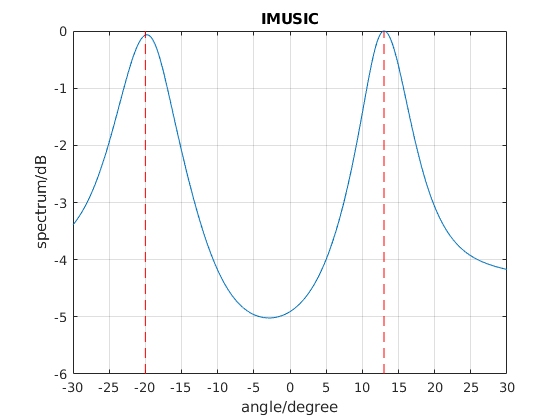
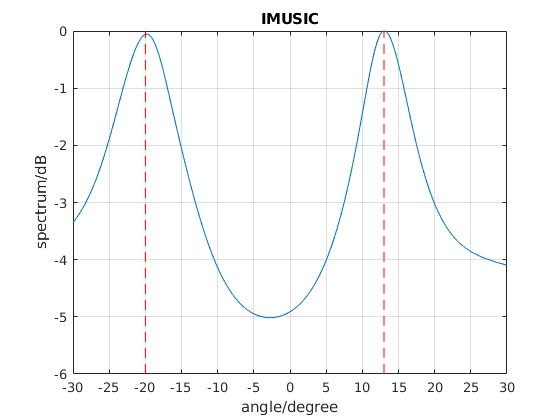
update narrowBand

diff --git a/IMUSIC.m b/IMUSIC.m
@@ -8,7 +8,7 @@ f_end = [1400e6, 1400e6];
 fc = 1000e6;
 bandwidth = f_end - f_begin;
 fs = 2*max(bandwidth);
-narrowBandwidth = 1e7;
+narrowBandwidth = 1e6;
 narrowBandNum = bandwidth/narrowBandwidth;
 
 freqSnapshots = 100;
